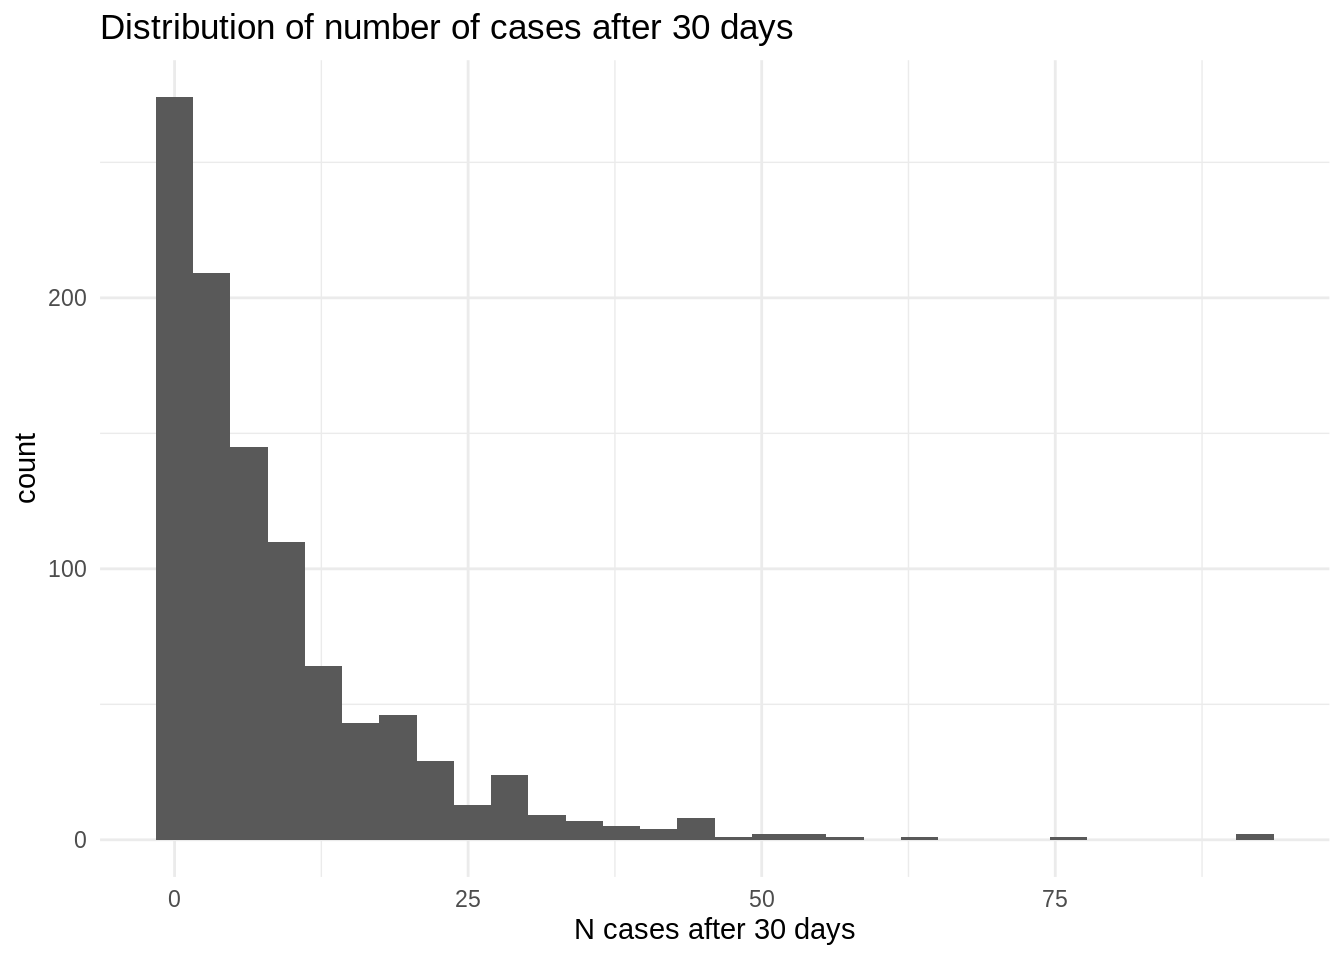
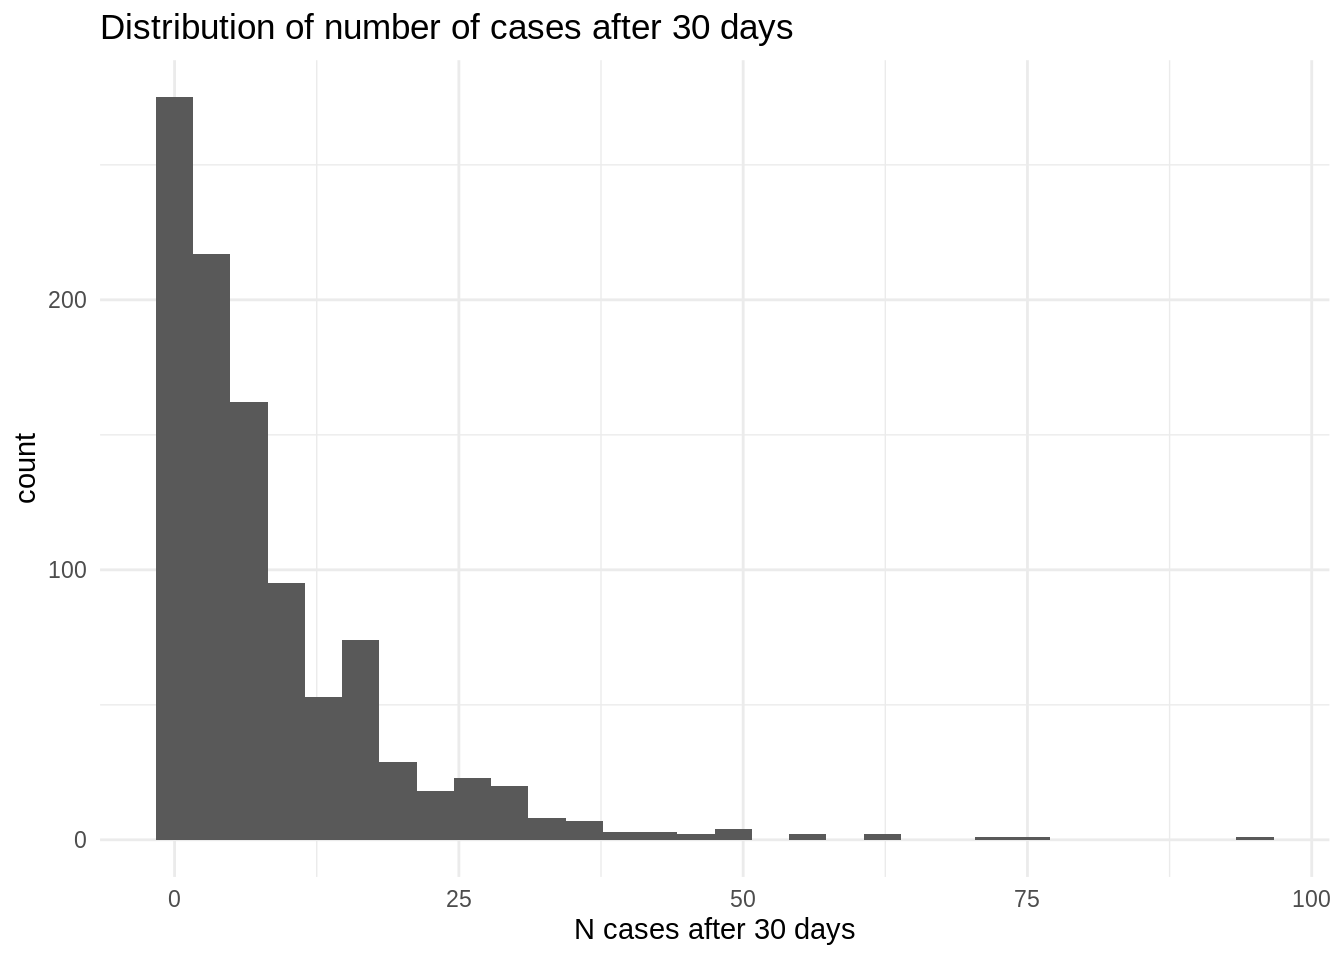
Deploy folkehelseinstituttet/spread to github.com/folkehelseinstituttet/spread.git:gh-pages

diff --git a/articles/asymmetric_mobility_intro.html b/articles/asymmetric_mobility_intro.html
@@ -104,7 +104,7 @@
 <div class="sourceCode" id="cb1"><pre class="sourceCode r"><code class="sourceCode r"><a class="sourceLine" id="cb1-1" data-line-number="1"><span class="kw"><a href="https://rdrr.io/r/base/library.html">library</a></span>(spread)</a>
 <a class="sourceLine" id="cb1-2" data-line-number="2"><span class="co">#&gt; </span></a>
 <a class="sourceLine" id="cb1-3" data-line-number="3"><span class="co">#&gt; PACKAGE: spread</span></a>
-<a class="sourceLine" id="cb1-4" data-line-number="4"><span class="co">#&gt; Version: 2020.03.19 at 10:19</span></a>
+<a class="sourceLine" id="cb1-4" data-line-number="4"><span class="co">#&gt; Version: 2020.03.19 at 11:45</span></a>
 <a class="sourceLine" id="cb1-5" data-line-number="5"><span class="co">#&gt; </span></a>
 <a class="sourceLine" id="cb1-6" data-line-number="6"><span class="co">#&gt; Commuter model and C++ code developed by Solveig Engebretsen and Andreas Nygård Osnes</span></a>
 <a class="sourceLine" id="cb1-7" data-line-number="7"><span class="co">#&gt; Asymmetric mobility model and C++ code developed by Solveig Engebretsen</span></a>
@@ -153,32 +153,32 @@
 <p><code>c_*</code> variables represent the current status of all the people existing in that geographical location at that time point.</p>
 <div class="sourceCode" id="cb6"><pre class="sourceCode r"><code class="sourceCode r"><a class="sourceLine" id="cb6-1" data-line-number="1"><span class="kw"><a href="https://rdrr.io/r/base/print.html">print</a></span>(d)</a>
 <a class="sourceLine" id="cb6-2" data-line-number="2"><span class="co">#&gt;     location_code week day  time  b_S b_E b_I b_Ia b_R  c_S c_E c_I c_Ia c_R</span></a>
-<a class="sourceLine" id="cb6-3" data-line-number="3"><span class="co">#&gt;  1:             a    1   1 23:59  976  19  42    0  13  826  17  36    0  11</span></a>
-<a class="sourceLine" id="cb6-4" data-line-number="4"><span class="co">#&gt;  2:             a    1   2 23:59  955  25  35    0  35  658  21  26    0  25</span></a>
-<a class="sourceLine" id="cb6-5" data-line-number="5"><span class="co">#&gt;  3:             a    1   3 23:59  934  25  42    0  49  492  18  25    0  35</span></a>
-<a class="sourceLine" id="cb6-6" data-line-number="6"><span class="co">#&gt;  4:             a    1   4 23:59  912  31  48    0  59  342  14  23    0  31</span></a>
-<a class="sourceLine" id="cb6-7" data-line-number="7"><span class="co">#&gt;  5:             a    1   5 23:59  894  31  48    0  77  197  12  16    0  25</span></a>
-<a class="sourceLine" id="cb6-8" data-line-number="8"><span class="co">#&gt;  6:             b    1   1 23:59  999   1   0    0   0 1149   3   6    0   2</span></a>
-<a class="sourceLine" id="cb6-9" data-line-number="9"><span class="co">#&gt;  7:             b    1   2 23:59  994   6   0    0   0 1291  10   9    0  10</span></a>
-<a class="sourceLine" id="cb6-10" data-line-number="10"><span class="co">#&gt;  8:             b    1   3 23:59  991   7   2    0   0 1433  14  19    0  14</span></a>
-<a class="sourceLine" id="cb6-11" data-line-number="11"><span class="co">#&gt;  9:             b    1   4 23:59  983  13   3    0   1 1553  30  28    0  29</span></a>
-<a class="sourceLine" id="cb6-12" data-line-number="12"><span class="co">#&gt; 10:             b    1   5 23:59  971  21   6    0   2 1668  40  38    0  54</span></a>
+<a class="sourceLine" id="cb6-3" data-line-number="3"><span class="co">#&gt;  1:             a    1   1 23:59  974  19  43    0  14  822  18  38    0  12</span></a>
+<a class="sourceLine" id="cb6-4" data-line-number="4"><span class="co">#&gt;  2:             a    1   2 23:59  951  28  47    0  24  655  21  36    0  18</span></a>
+<a class="sourceLine" id="cb6-5" data-line-number="5"><span class="co">#&gt;  3:             a    1   3 23:59  938  26  39    0  47  505  15  23    0  27</span></a>
+<a class="sourceLine" id="cb6-6" data-line-number="6"><span class="co">#&gt;  4:             a    1   4 23:59  922  34  35    0  59  357  14  12    0  27</span></a>
+<a class="sourceLine" id="cb6-7" data-line-number="7"><span class="co">#&gt;  5:             a    1   5 23:59  904  31  40    0  75  214   9  10    0  17</span></a>
+<a class="sourceLine" id="cb6-8" data-line-number="8"><span class="co">#&gt;  6:             b    1   1 23:59  999   1   0    0   0 1151   2   5    0   2</span></a>
+<a class="sourceLine" id="cb6-9" data-line-number="9"><span class="co">#&gt;  7:             b    1   2 23:59  990   9   1    0   0 1286  16  12    0   6</span></a>
+<a class="sourceLine" id="cb6-10" data-line-number="10"><span class="co">#&gt;  8:             b    1   3 23:59  980  14   5    0   1 1413  25  21    0  21</span></a>
+<a class="sourceLine" id="cb6-11" data-line-number="11"><span class="co">#&gt;  9:             b    1   4 23:59  965  18  14    0   3 1530  38  37    0  35</span></a>
+<a class="sourceLine" id="cb6-12" data-line-number="12"><span class="co">#&gt; 10:             b    1   5 23:59  952  19  20    0   9 1642  41  50    0  67</span></a>
 <a class="sourceLine" id="cb6-13" data-line-number="13"><span class="co">#&gt; 11:             c    1   1 23:59 2000   0   0    0   0 2000   0   0    0   0</span></a>
 <a class="sourceLine" id="cb6-14" data-line-number="14"><span class="co">#&gt; 12:             c    1   2 23:59 2000   0   0    0   0 2000   0   0    0   0</span></a>
 <a class="sourceLine" id="cb6-15" data-line-number="15"><span class="co">#&gt; 13:             c    1   3 23:59 2000   0   0    0   0 2000   0   0    0   0</span></a>
 <a class="sourceLine" id="cb6-16" data-line-number="16"><span class="co">#&gt; 14:             c    1   4 23:59 2000   0   0    0   0 2000   0   0    0   0</span></a>
-<a class="sourceLine" id="cb6-17" data-line-number="17"><span class="co">#&gt; 15:             c    1   5 23:59 1999   1   0    0   0 1999   1   0    0   0</span></a>
+<a class="sourceLine" id="cb6-17" data-line-number="17"><span class="co">#&gt; 15:             c    1   5 23:59 2000   0   0    0   0 2000   0   0    0   0</span></a>
 <a class="sourceLine" id="cb6-18" data-line-number="18"><span class="co">#&gt;     c_incidence</span></a>
-<a class="sourceLine" id="cb6-19" data-line-number="19"><span class="co">#&gt;  1:           2</span></a>
-<a class="sourceLine" id="cb6-20" data-line-number="20"><span class="co">#&gt;  2:           4</span></a>
+<a class="sourceLine" id="cb6-19" data-line-number="19"><span class="co">#&gt;  1:           4</span></a>
+<a class="sourceLine" id="cb6-20" data-line-number="20"><span class="co">#&gt;  2:           7</span></a>
 <a class="sourceLine" id="cb6-21" data-line-number="21"><span class="co">#&gt;  3:           2</span></a>
-<a class="sourceLine" id="cb6-22" data-line-number="22"><span class="co">#&gt;  4:           2</span></a>
-<a class="sourceLine" id="cb6-23" data-line-number="23"><span class="co">#&gt;  5:           0</span></a>
-<a class="sourceLine" id="cb6-24" data-line-number="24"><span class="co">#&gt;  6:           0</span></a>
-<a class="sourceLine" id="cb6-25" data-line-number="25"><span class="co">#&gt;  7:           0</span></a>
-<a class="sourceLine" id="cb6-26" data-line-number="26"><span class="co">#&gt;  8:           1</span></a>
-<a class="sourceLine" id="cb6-27" data-line-number="27"><span class="co">#&gt;  9:           1</span></a>
-<a class="sourceLine" id="cb6-28" data-line-number="28"><span class="co">#&gt; 10:           5</span></a>
+<a class="sourceLine" id="cb6-22" data-line-number="22"><span class="co">#&gt;  4:           1</span></a>
+<a class="sourceLine" id="cb6-23" data-line-number="23"><span class="co">#&gt;  5:           1</span></a>
+<a class="sourceLine" id="cb6-24" data-line-number="24"><span class="co">#&gt;  6:           1</span></a>
+<a class="sourceLine" id="cb6-25" data-line-number="25"><span class="co">#&gt;  7:           1</span></a>
+<a class="sourceLine" id="cb6-26" data-line-number="26"><span class="co">#&gt;  8:           4</span></a>
+<a class="sourceLine" id="cb6-27" data-line-number="27"><span class="co">#&gt;  9:           7</span></a>
+<a class="sourceLine" id="cb6-28" data-line-number="28"><span class="co">#&gt; 10:          11</span></a>
 <a class="sourceLine" id="cb6-29" data-line-number="29"><span class="co">#&gt; 11:           0</span></a>
 <a class="sourceLine" id="cb6-30" data-line-number="30"><span class="co">#&gt; 12:           0</span></a>
 <a class="sourceLine" id="cb6-31" data-line-number="31"><span class="co">#&gt; 13:           0</span></a>

diff --git a/reference/asymmetric_mobility_se1e2iiar.html b/reference/asymmetric_mobility_se1e2iiar.html
@@ -235,37 +235,37 @@
   <span class='kw'>asymptomatic_relative_infectiousness</span> <span class='kw'>=</span> <span class='fl'>0</span>,
   <span class='kw'>N</span> <span class='kw'>=</span> <span class='fl'>1</span>
 )</div><div class='output co'>#&gt;     location_code week day  time  b_S b_E1 b_E2 b_I b_Ia b_R  c_S c_E1 c_E2 c_I
-#&gt;  1:             a    1   1 23:59  977   21    1  43    0   8  833   13    1  36
-#&gt;  2:             a    1   2 23:59  955   29   10  37    0  19  668   21    7  21
-#&gt;  3:             a    1   3 23:59  934   26   24  38    0  28  510   16   15  16
-#&gt;  4:             a    1   4 23:59  915   29   28  40    0  38  364    9   11  13
-#&gt;  5:             a    1   5 23:59  877   40   44  43    0  46  205   13   11  14
-#&gt;  6:             b    1   1 23:59  997    3    0   0    0   0 1141   11    0   7
-#&gt;  7:             b    1   2 23:59  990    9    1   0    0   0 1277   17    4  16
-#&gt;  8:             b    1   3 23:59  977   11    6   4    0   2 1401   21   15  26
-#&gt;  9:             b    1   4 23:59  953   28   11   6    0   2 1504   48   28  33
-#&gt; 10:             b    1   5 23:59  925   34   29   6    0   6 1597   61   62  35
-#&gt; 11:             c    1   1 23:59 1999    1    0   0    0   0 1999    1    0   0
-#&gt; 12:             c    1   2 23:59 1999    1    0   0    0   0 1999    1    0   0
-#&gt; 13:             c    1   3 23:59 1997    2    1   0    0   0 1997    2    1   0
-#&gt; 14:             c    1   4 23:59 1997    2    1   0    0   0 1997    2    1   0
-#&gt; 15:             c    1   5 23:59 1996    2    1   0    0   1 1996    2    1   0
+#&gt;  1:             a    1   1 23:59  972   24    4  44    0   6  815   23    4  43
+#&gt;  2:             a    1   2 23:59  950   34   11  35    0  20  647   28    9  30
+#&gt;  3:             a    1   3 23:59  925   41   13  42    0  29  487   24   13  31
+#&gt;  4:             a    1   4 23:59  901   46   25  41    0  37  338   24   14  20
+#&gt;  5:             a    1   5 23:59  877   47   39  41    0  46  196   14   14  12
+#&gt;  6:             b    1   1 23:59 1000    0    0   0    0   0 1157    1    0   1
+#&gt;  7:             b    1   2 23:59  999    1    0   0    0   0 1302    7    2   5
+#&gt;  8:             b    1   3 23:59  996    3    1   0    0   0 1434   20    1  11
+#&gt;  9:             b    1   4 23:59  992    5    3   0    0   0 1555   27   14  21
+#&gt; 10:             b    1   5 23:59  978   15    5   2    0   0 1659   48   30  31
+#&gt; 11:             c    1   1 23:59 2000    0    0   0    0   0 2000    0    0   0
+#&gt; 12:             c    1   2 23:59 2000    0    0   0    0   0 2000    0    0   0
+#&gt; 13:             c    1   3 23:59 1999    1    0   0    0   0 1999    1    0   0
+#&gt; 14:             c    1   4 23:59 1998    2    0   0    0   0 1998    2    0   0
+#&gt; 15:             c    1   5 23:59 1998    2    0   0    0   0 1998    2    0   0
 #&gt;     c_Ia c_R c_symp_incidence c_asymp_incidence
-#&gt;  1:    0   7                1                 0
-#&gt;  2:    0  13                2                 0
-#&gt;  3:    0  13                5                 0
-#&gt;  4:    0  13                8                 0
-#&gt;  5:    0   7                8                 0
+#&gt;  1:    0   5                0                 0
+#&gt;  2:    0  16                5                 0
+#&gt;  3:    0  15               10                 0
+#&gt;  4:    0  14                5                 0
+#&gt;  5:    0  14                3                 0
 #&gt;  6:    0   1                0                 0
-#&gt;  7:    0   6                3                 0
-#&gt;  8:    0  17               11                 0
-#&gt;  9:    0  27                6                 0
-#&gt; 10:    0  45                7                 0
+#&gt;  7:    0   4                0                 0
+#&gt;  8:    0  14                6                 0
+#&gt;  9:    0  23                2                 0
+#&gt; 10:    0  32                8                 0
 #&gt; 11:    0   0                0                 0
 #&gt; 12:    0   0                0                 0
 #&gt; 13:    0   0                0                 0
 #&gt; 14:    0   0                0                 0
-#&gt; 15:    0   1                1                 0</div></pre>
+#&gt; 15:    0   0                0                 0</div></pre>
   </div>
   <div class="col-md-3 hidden-xs hidden-sm" id="sidebar">
     <h2>Contents</h2>

diff --git a/reference/asymmetric_mobility.html b/reference/asymmetric_mobility.html
@@ -199,31 +199,31 @@
   <span class='kw'>asymptomatic_relative_infectiousness</span> <span class='kw'>=</span> <span class='fl'>0</span>,
   <span class='kw'>N</span> <span class='kw'>=</span> <span class='fl'>1</span>
 )</div><div class='output co'>#&gt;     location_code week day  time  b_S b_E b_I b_Ia b_R  c_S c_E c_I c_Ia c_R
-#&gt;  1:             a    1   1 23:59  973  24  43    0  10  824  24  34    0   8
-#&gt;  2:             a    1   2 23:59  952  31  40    0  27  660  26  26    0  18
-#&gt;  3:             a    1   3 23:59  928  35  40    0  47  502  22  22    0  24
-#&gt;  4:             a    1   4 23:59  901  36  50    0  63  348  19  23    0  20
-#&gt;  5:             a    1   5 23:59  874  40  56    0  80  202  15  18    0  15
+#&gt;  1:             a    1   1 23:59  976  22  42    0  10  827  22  33    0   8
+#&gt;  2:             a    1   2 23:59  960  28  39    0  23  668  22  24    0  16
+#&gt;  3:             a    1   3 23:59  940  29  42    0  39  515  18  22    0  15
+#&gt;  4:             a    1   4 23:59  917  35  47    0  51  367  13  19    0  11
+#&gt;  5:             a    1   5 23:59  896  36  47    0  71  215  12  11    0  12
 #&gt;  6:             b    1   1 23:59  997   2   1    0   0 1146   2  10    0   2
-#&gt;  7:             b    1   2 23:59  996   2   2    0   0 1288   7  16    0   9
-#&gt;  8:             b    1   3 23:59  981  10   7    0   2 1407  23  25    0  25
-#&gt;  9:             b    1   4 23:59  967  17  10    0   6 1520  34  37    0  49
-#&gt; 10:             b    1   5 23:59  952  21  14    0  13 1624  46  52    0  78
-#&gt; 11:             c    1   1 23:59 2000   0   0    0   0 2000   0   0    0   0
-#&gt; 12:             c    1   2 23:59 2000   0   0    0   0 2000   0   0    0   0
-#&gt; 13:             c    1   3 23:59 2000   0   0    0   0 2000   0   0    0   0
-#&gt; 14:             c    1   4 23:59 2000   0   0    0   0 2000   0   0    0   0
-#&gt; 15:             c    1   5 23:59 2000   0   0    0   0 2000   0   0    0   0
+#&gt;  7:             b    1   2 23:59  990   7   2    0   1 1282  13  17    0   8
+#&gt;  8:             b    1   3 23:59  982  10   6    0   2 1407  21  26    0  26
+#&gt;  9:             b    1   4 23:59  964  20   9    0   7 1514  42  37    0  47
+#&gt; 10:             b    1   5 23:59  950  17  19    0  14 1631  41  55    0  73
+#&gt; 11:             c    1   1 23:59 1999   1   0    0   0 1999   1   0    0   0
+#&gt; 12:             c    1   2 23:59 1999   1   0    0   0 1999   1   0    0   0
+#&gt; 13:             c    1   3 23:59 1999   1   0    0   0 1999   1   0    0   0
+#&gt; 14:             c    1   4 23:59 1999   1   0    0   0 1999   1   0    0   0
+#&gt; 15:             c    1   5 23:59 1999   0   1    0   0 1999   0   1    0   0
 #&gt;     c_incidence
 #&gt;  1:           0
-#&gt;  2:           4
-#&gt;  3:           1
+#&gt;  2:           1
+#&gt;  3:           0
 #&gt;  4:           3
 #&gt;  5:           1
 #&gt;  6:           0
 #&gt;  7:           1
-#&gt;  8:           6
-#&gt;  9:           3
+#&gt;  8:           5
+#&gt;  9:           2
 #&gt; 10:           7
 #&gt; 11:           0
 #&gt; 12:           0

diff --git a/articles/branching_process.html b/articles/branching_process.html
@@ -139,7 +139,7 @@
 <a class="sourceLine" id="cb4-2" data-line-number="2"><span class="kw"><a href="https://rdrr.io/r/base/print.html">print</a></span>(<span class="kw"><a href="https://rdrr.io/r/stats/median.html">median</a></span>(summary<span class="op">$</span>cumulative[<span class="dv">30</span>,]))</a>
 <a class="sourceLine" id="cb4-3" data-line-number="3"><span class="co">#&gt; [1] 5</span></a>
 <a class="sourceLine" id="cb4-4" data-line-number="4"><span class="kw"><a href="https://rdrr.io/r/base/print.html">print</a></span>(summary<span class="op">$</span>p_no_spread)</a>
-<a class="sourceLine" id="cb4-5" data-line-number="5"><span class="co">#&gt; [1] 0.274</span></a></code></pre></div>
+<a class="sourceLine" id="cb4-5" data-line-number="5"><span class="co">#&gt; [1] 0.275</span></a></code></pre></div>
 <p>The median number of cases is around 50, with a probability of no spread is around 6%.</p>
 </div>
 <div id="estimating-parameters-via-approximate-bayesian-computation-abc" class="section level1">
@@ -171,7 +171,7 @@
 <a class="sourceLine" id="cb5-23" data-line-number="23">  )</a>
 <a class="sourceLine" id="cb5-24" data-line-number="24"><span class="kw"><a href="https://rdrr.io/r/base/print.html">print</a></span>(HDInterval<span class="op">::</span><span class="kw"><a href="https://rdrr.io/pkg/HDInterval/man/hdi.html">hdi</a></span>(r<span class="op">$</span>R0))</a>
 <a class="sourceLine" id="cb5-25" data-line-number="25"><span class="co">#&gt; lower upper </span></a>
-<a class="sourceLine" id="cb5-26" data-line-number="26"><span class="co">#&gt;  2.05  4.35 </span></a>
+<a class="sourceLine" id="cb5-26" data-line-number="26"><span class="co">#&gt;  2.10  4.45 </span></a>
 <a class="sourceLine" id="cb5-27" data-line-number="27"><span class="co">#&gt; attr(,"credMass")</span></a>
 <a class="sourceLine" id="cb5-28" data-line-number="28"><span class="co">#&gt; [1] 0.95</span></a></code></pre></div>
 </div>
